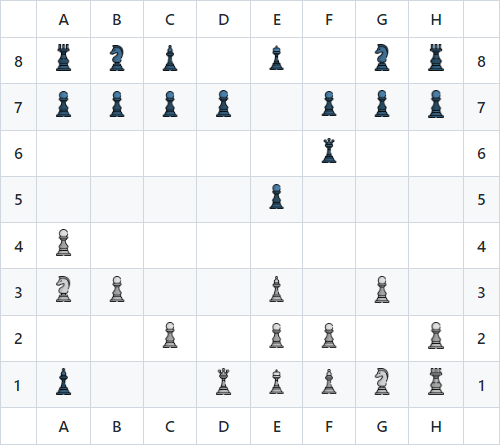
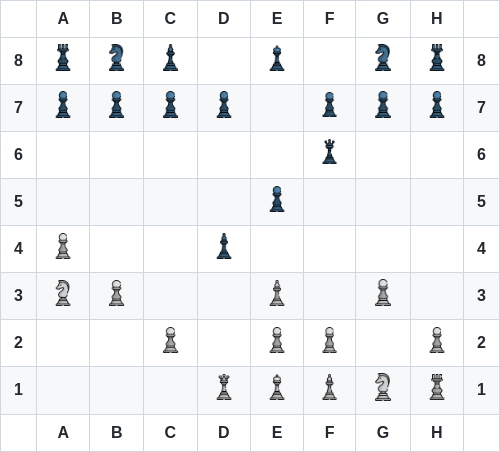
Generated the chess board preview img ♟

diff --git a/file.md b/file.md
@@ -5,8 +5,8 @@
 | **7** | <img src="https://raw.githubusercontent.com/milaabl/readme-chess/master/img/black/pawn.png" width=50px> | <img src="https://raw.githubusercontent.com/milaabl/readme-chess/master/img/black/pawn.png" width=50px> | <img src="https://raw.githubusercontent.com/milaabl/readme-chess/master/img/black/pawn.png" width=50px> | <img src="https://raw.githubusercontent.com/milaabl/readme-chess/master/img/black/pawn.png" width=50px> | <img src="https://raw.githubusercontent.com/milaabl/readme-chess/master/img/blank.png" width=50px> | <img src="https://raw.githubusercontent.com/milaabl/readme-chess/master/img/black/pawn.png" width=50px> | <img src="https://raw.githubusercontent.com/milaabl/readme-chess/master/img/black/pawn.png" width=50px> | <img src="https://raw.githubusercontent.com/milaabl/readme-chess/master/img/black/pawn.png" width=50px> | **7** |
 | **6** | <img src="https://raw.githubusercontent.com/milaabl/readme-chess/master/img/blank.png" width=50px> | <img src="https://raw.githubusercontent.com/milaabl/readme-chess/master/img/blank.png" width=50px> | <img src="https://raw.githubusercontent.com/milaabl/readme-chess/master/img/blank.png" width=50px> | <img src="https://raw.githubusercontent.com/milaabl/readme-chess/master/img/blank.png" width=50px> | <img src="https://raw.githubusercontent.com/milaabl/readme-chess/master/img/blank.png" width=50px> | <img src="https://raw.githubusercontent.com/milaabl/readme-chess/master/img/black/queen.png" width=50px> | <img src="https://raw.githubusercontent.com/milaabl/readme-chess/master/img/blank.png" width=50px> | <img src="https://raw.githubusercontent.com/milaabl/readme-chess/master/img/blank.png" width=50px> | **6** |
 | **5** | <img src="https://raw.githubusercontent.com/milaabl/readme-chess/master/img/blank.png" width=50px> | <img src="https://raw.githubusercontent.com/milaabl/readme-chess/master/img/blank.png" width=50px> | <img src="https://raw.githubusercontent.com/milaabl/readme-chess/master/img/blank.png" width=50px> | <img src="https://raw.githubusercontent.com/milaabl/readme-chess/master/img/blank.png" width=50px> | <img src="https://raw.githubusercontent.com/milaabl/readme-chess/master/img/black/pawn.png" width=50px> | <img src="https://raw.githubusercontent.com/milaabl/readme-chess/master/img/blank.png" width=50px> | <img src="https://raw.githubusercontent.com/milaabl/readme-chess/master/img/blank.png" width=50px> | <img src="https://raw.githubusercontent.com/milaabl/readme-chess/master/img/blank.png" width=50px> | **5** |
-| **4** | <img src="https://raw.githubusercontent.com/milaabl/readme-chess/master/img/white/pawn.png" width=50px> | <img src="https://raw.githubusercontent.com/milaabl/readme-chess/master/img/blank.png" width=50px> | <img src="https://raw.githubusercontent.com/milaabl/readme-chess/master/img/blank.png" width=50px> | <img src="https://raw.githubusercontent.com/milaabl/readme-chess/master/img/blank.png" width=50px> | <img src="https://raw.githubusercontent.com/milaabl/readme-chess/master/img/blank.png" width=50px> | <img src="https://raw.githubusercontent.com/milaabl/readme-chess/master/img/blank.png" width=50px> | <img src="https://raw.githubusercontent.com/milaabl/readme-chess/master/img/blank.png" width=50px> | <img src="https://raw.githubusercontent.com/milaabl/readme-chess/master/img/blank.png" width=50px> | **4** |
+| **4** | <img src="https://raw.githubusercontent.com/milaabl/readme-chess/master/img/white/pawn.png" width=50px> | <img src="https://raw.githubusercontent.com/milaabl/readme-chess/master/img/blank.png" width=50px> | <img src="https://raw.githubusercontent.com/milaabl/readme-chess/master/img/blank.png" width=50px> | <img src="https://raw.githubusercontent.com/milaabl/readme-chess/master/img/black/bishop.png" width=50px> | <img src="https://raw.githubusercontent.com/milaabl/readme-chess/master/img/blank.png" width=50px> | <img src="https://raw.githubusercontent.com/milaabl/readme-chess/master/img/blank.png" width=50px> | <img src="https://raw.githubusercontent.com/milaabl/readme-chess/master/img/blank.png" width=50px> | <img src="https://raw.githubusercontent.com/milaabl/readme-chess/master/img/blank.png" width=50px> | **4** |
 | **3** | <img src="https://raw.githubusercontent.com/milaabl/readme-chess/master/img/white/knight.png" width=50px> | <img src="https://raw.githubusercontent.com/milaabl/readme-chess/master/img/white/pawn.png" width=50px> | <img src="https://raw.githubusercontent.com/milaabl/readme-chess/master/img/blank.png" width=50px> | <img src="https://raw.githubusercontent.com/milaabl/readme-chess/master/img/blank.png" width=50px> | <img src="https://raw.githubusercontent.com/milaabl/readme-chess/master/img/white/bishop.png" width=50px> | <img src="https://raw.githubusercontent.com/milaabl/readme-chess/master/img/blank.png" width=50px> | <img src="https://raw.githubusercontent.com/milaabl/readme-chess/master/img/white/pawn.png" width=50px> | <img src="https://raw.githubusercontent.com/milaabl/readme-chess/master/img/blank.png" width=50px> | **3** |
 | **2** | <img src="https://raw.githubusercontent.com/milaabl/readme-chess/master/img/blank.png" width=50px> | <img src="https://raw.githubusercontent.com/milaabl/readme-chess/master/img/blank.png" width=50px> | <img src="https://raw.githubusercontent.com/milaabl/readme-chess/master/img/white/pawn.png" width=50px> | <img src="https://raw.githubusercontent.com/milaabl/readme-chess/master/img/blank.png" width=50px> | <img src="https://raw.githubusercontent.com/milaabl/readme-chess/master/img/white/pawn.png" width=50px> | <img src="https://raw.githubusercontent.com/milaabl/readme-chess/master/img/white/pawn.png" width=50px> | <img src="https://raw.githubusercontent.com/milaabl/readme-chess/master/img/blank.png" width=50px> | <img src="https://raw.githubusercontent.com/milaabl/readme-chess/master/img/white/pawn.png" width=50px> | **2** |
-| **1** | <img src="https://raw.githubusercontent.com/milaabl/readme-chess/master/img/black/bishop.png" width=50px> | <img src="https://raw.githubusercontent.com/milaabl/readme-chess/master/img/blank.png" width=50px> | <img src="https://raw.githubusercontent.com/milaabl/readme-chess/master/img/blank.png" width=50px> | <img src="https://raw.githubusercontent.com/milaabl/readme-chess/master/img/white/queen.png" width=50px> | <img src="https://raw.githubusercontent.com/milaabl/readme-chess/master/img/white/king.png" width=50px> | <img src="https://raw.githubusercontent.com/milaabl/readme-chess/master/img/white/bishop.png" width=50px> | <img src="https://raw.githubusercontent.com/milaabl/readme-chess/master/img/white/knight.png" width=50px> | <img src="https://raw.githubusercontent.com/milaabl/readme-chess/master/img/white/rook.png" width=50px> | **1** |
+| **1** | <img src="https://raw.githubusercontent.com/milaabl/readme-chess/master/img/blank.png" width=50px> | <img src="https://raw.githubusercontent.com/milaabl/readme-chess/master/img/blank.png" width=50px> | <img src="https://raw.githubusercontent.com/milaabl/readme-chess/master/img/blank.png" width=50px> | <img src="https://raw.githubusercontent.com/milaabl/readme-chess/master/img/white/queen.png" width=50px> | <img src="https://raw.githubusercontent.com/milaabl/readme-chess/master/img/white/king.png" width=50px> | <img src="https://raw.githubusercontent.com/milaabl/readme-chess/master/img/white/bishop.png" width=50px> | <img src="https://raw.githubusercontent.com/milaabl/readme-chess/master/img/white/knight.png" width=50px> | <img src="https://raw.githubusercontent.com/milaabl/readme-chess/master/img/white/rook.png" width=50px> | **1** |
 |   | **A** | **B** | **C** | **D** | **E** | **F** | **G** | **H** |   |
